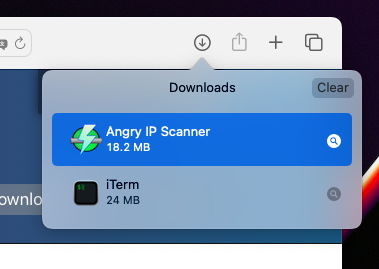
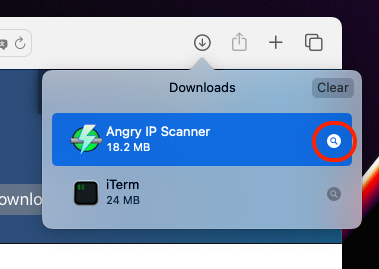
Angry IP install instructions for Mac

Changed region(s): [[0.8127, 0.4461, 0.9578, 0.6245]]

diff --git a/docs/rpi_setup_step5_ssh_in_mac_find_ip.md b/docs/rpi_setup_step5_ssh_in_mac_find_ip.md
@@ -8,9 +8,25 @@ Note: If you have not already connected the SSD to your Raspberry Pi and powered
 
 You may be able to discover the IP address of the Raspberry Pi by logging into the web interface of your router and looking for it in the list of connected devices. Alternatively, you can use an IP address scanner, which is the method we will be using here. We will be using the free software called 'Angry IP Scanner'.
 
-Open Safari, and visit [https://angryip.org/](https://angryip.org/) and click the 'Download' button.
+Open Safari, and visit [https://angryip.org/](https://angryip.org/) and click the 'Free Download' button.
 
-![Download iTerm 2](/images/macos_setup_5_1a.png)
+![Download Andry IP Scanner](/images/macos_setup_5_3a.png)
+
+Left-click on the download link for 'Mac Intel' or 'Mac ARM (M1/M2) depending on the type of Mac you are using.
+
+![Download Andry IP Scanner](/images/macos_setup_5_3b.png)
+
+If asked to allow downloads, click 'Allow':
+
+![Download Andry IP Scanner](/images/macos_setup_5_3c.png)
+
+Click on the 'Downloads' icon in the top-right corner of the Safari window, and then click on the magnifying glass icon next to the 'Andry IP Scanner' download to open the Downloads folder.
+
+![Download Andry IP Scanner](/images/macos_setup_5_3d.png)
+
+To install Andry IP Scanner, drag-and-drop it on to the Applications folder.
+
+![Install Andry IP Scanner](/images/macos_setup_5_3e.gif)
 
 
 # NEXT: [STEP 6 - Run the DigiNode Setup script](/docs/rpi_setup_step6_run_diginode_setup.md)
